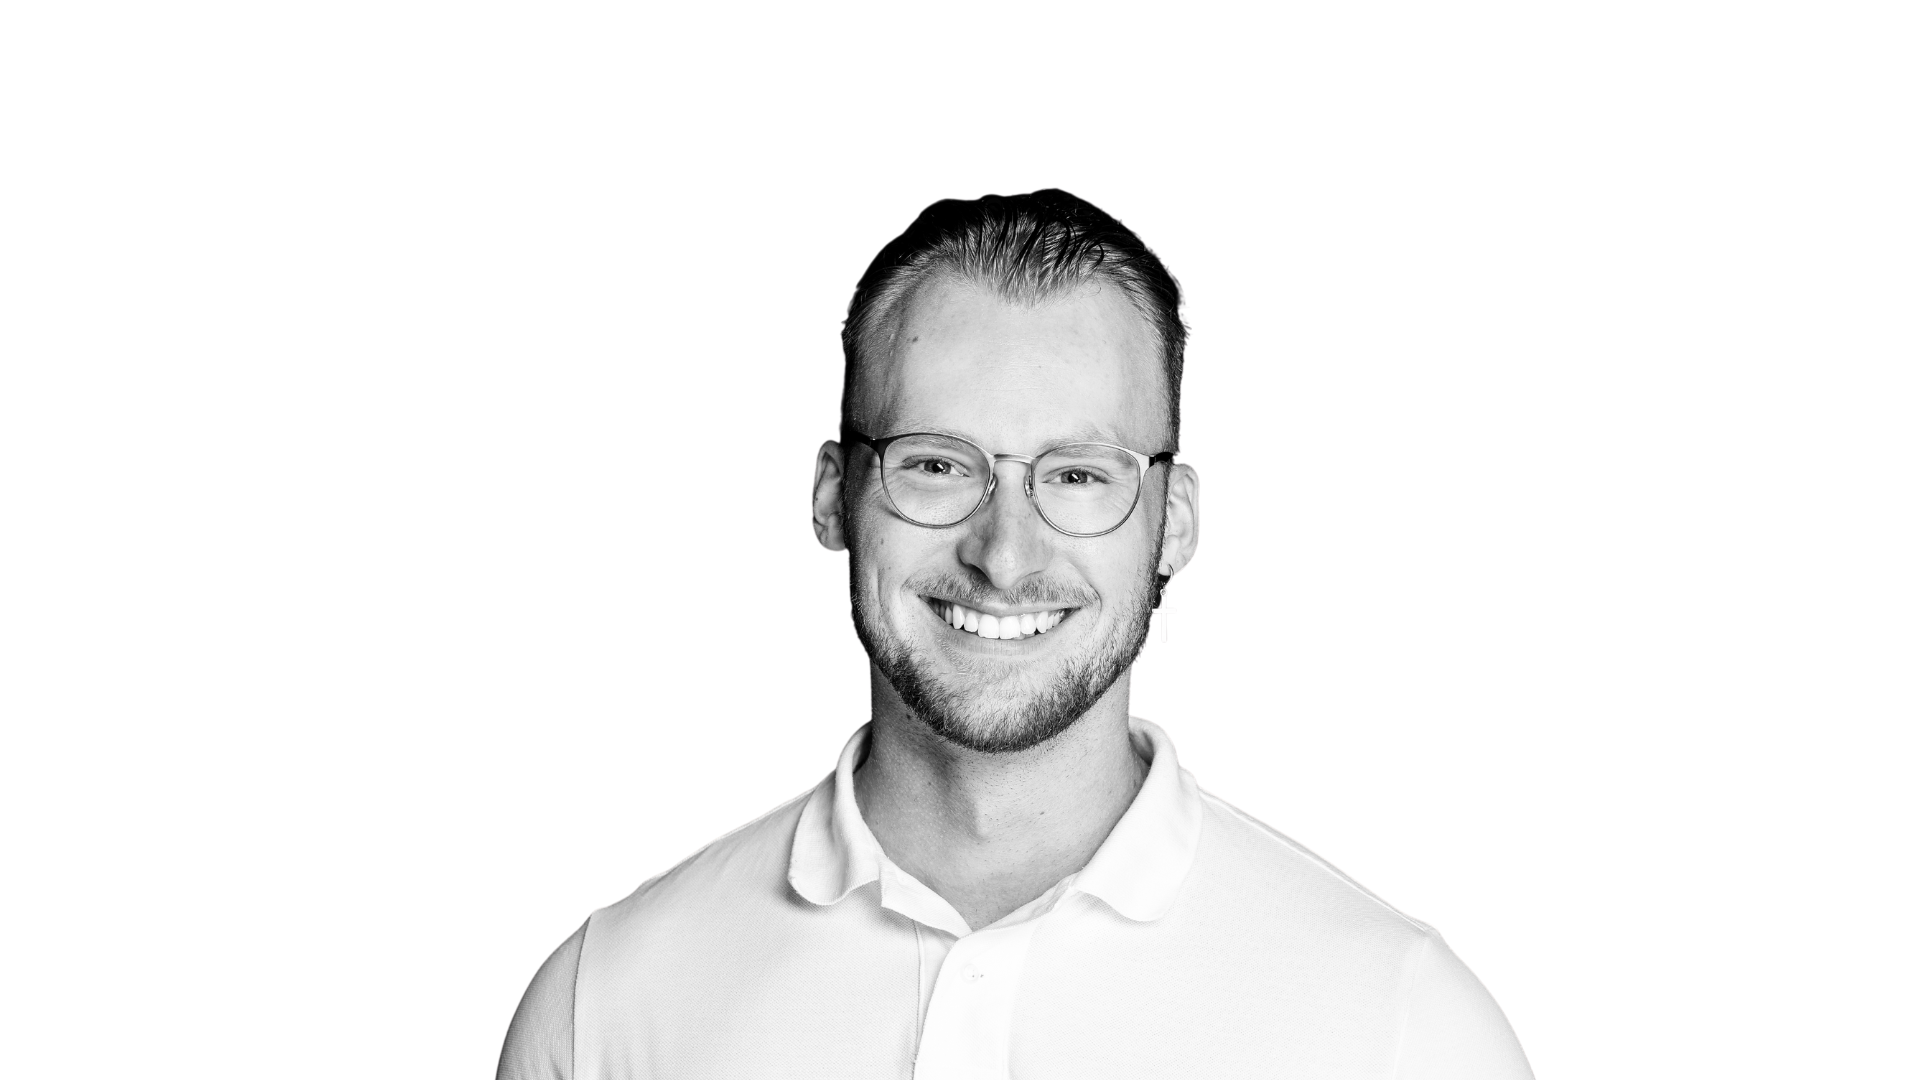
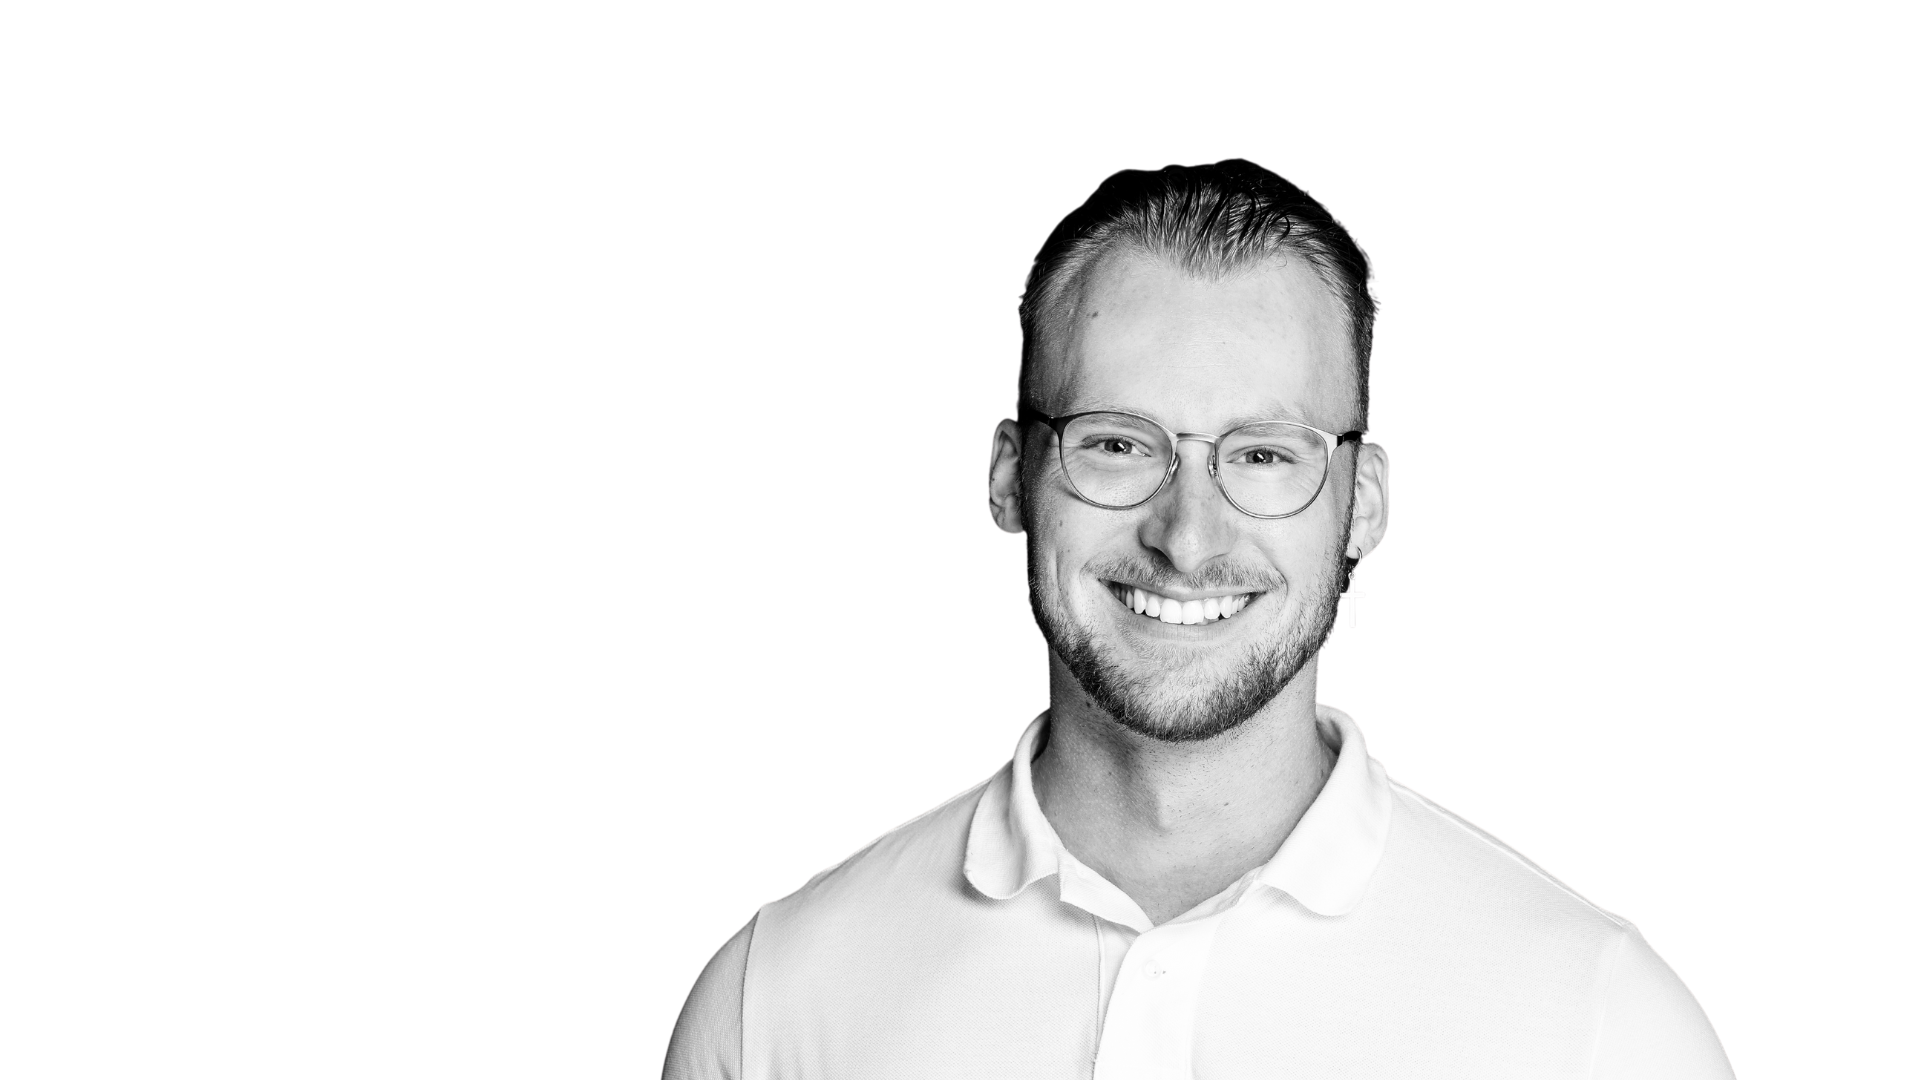
readjust hero page

diff --git a/src/pages/IntroductionPage/IntroductionPage.scss b/src/pages/IntroductionPage/IntroductionPage.scss
@@ -3,7 +3,6 @@
 
 .introduction {
     padding-bottom: 0.5rem;
-    
 
     @include desktop {
         border-bottom: 2px solid white;
@@ -16,11 +15,11 @@
         @include desktop {
             flex-direction: row;
             background-image: url("../../assets/images/profile-background.png");
+            background-position: center;
             background-size: cover;
-            height: 55rem;
+            height: 45rem;
             align-items: center;
             border-bottom: 2px solid white;
-            margin-top: 7.25rem;
         }
 
         &-content {
@@ -38,16 +37,6 @@
             &-paragraph {
                 @include desktop {
                     width: 53.75%;
-                }
-            }
-
-            &-learn-more {
-                @include flex-column;
-                gap: 2.25rem;
-
-                @include desktop {
-                    gap: 5.25rem;
-                    margin-bottom: 15rem;
                 }
             }
         }

diff --git a/src/pages/IntroductionPage/IntroductionPage.jsx b/src/pages/IntroductionPage/IntroductionPage.jsx
@@ -36,11 +36,11 @@ export default function IntroductionPage() {
                         paragraph="I'm a design-oriented marketer turned Full-Stack Developer who loves striking a balance between functional and aesthetic designs - though I tend to be more front-end oriented!"
                         href="#about"
                     />
-                    <LearnMoreField
+                    {/* <LearnMoreField
                         name="MY WORK"
                         paragraph="I have a proven track record and hands-on experience coding websites and applications both with front-end and back-end related languages - including react.js, node.js, express.js, knex.js and more."
                         href="#projects"
-                    />
+                    /> */}
                 </div>
             </div>
         </div>
